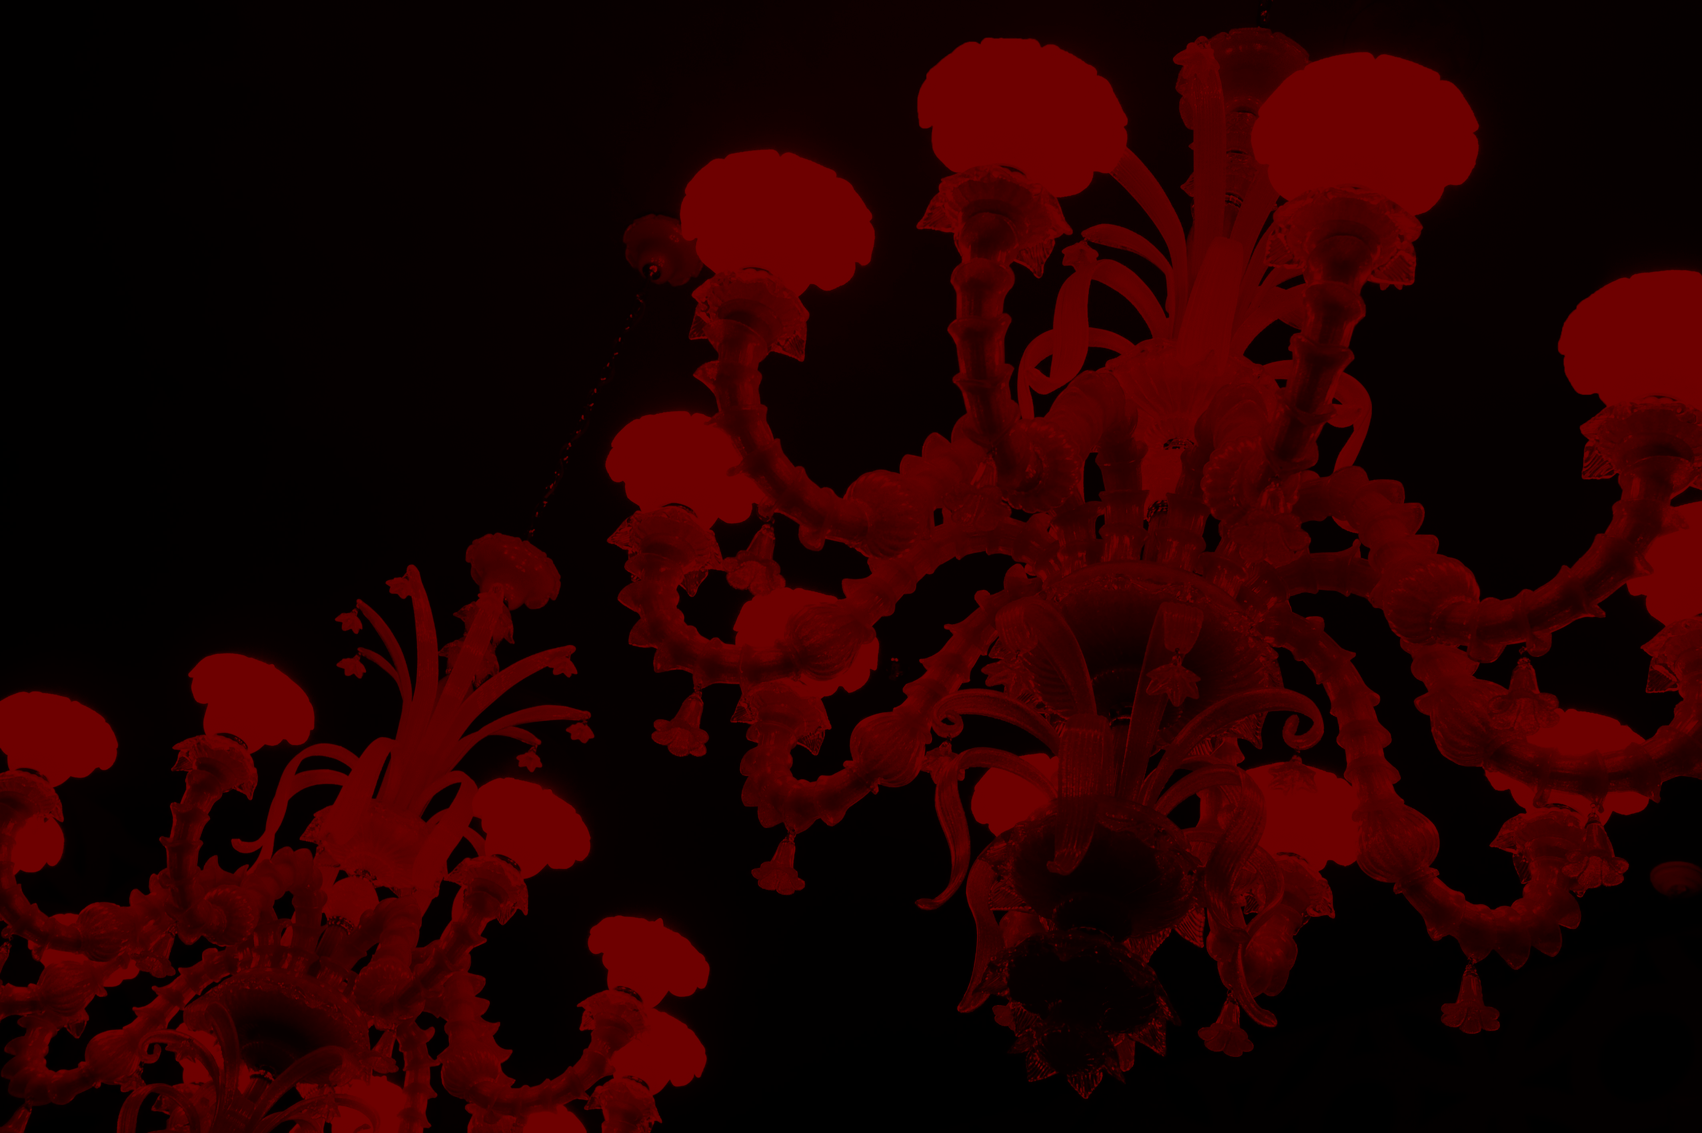
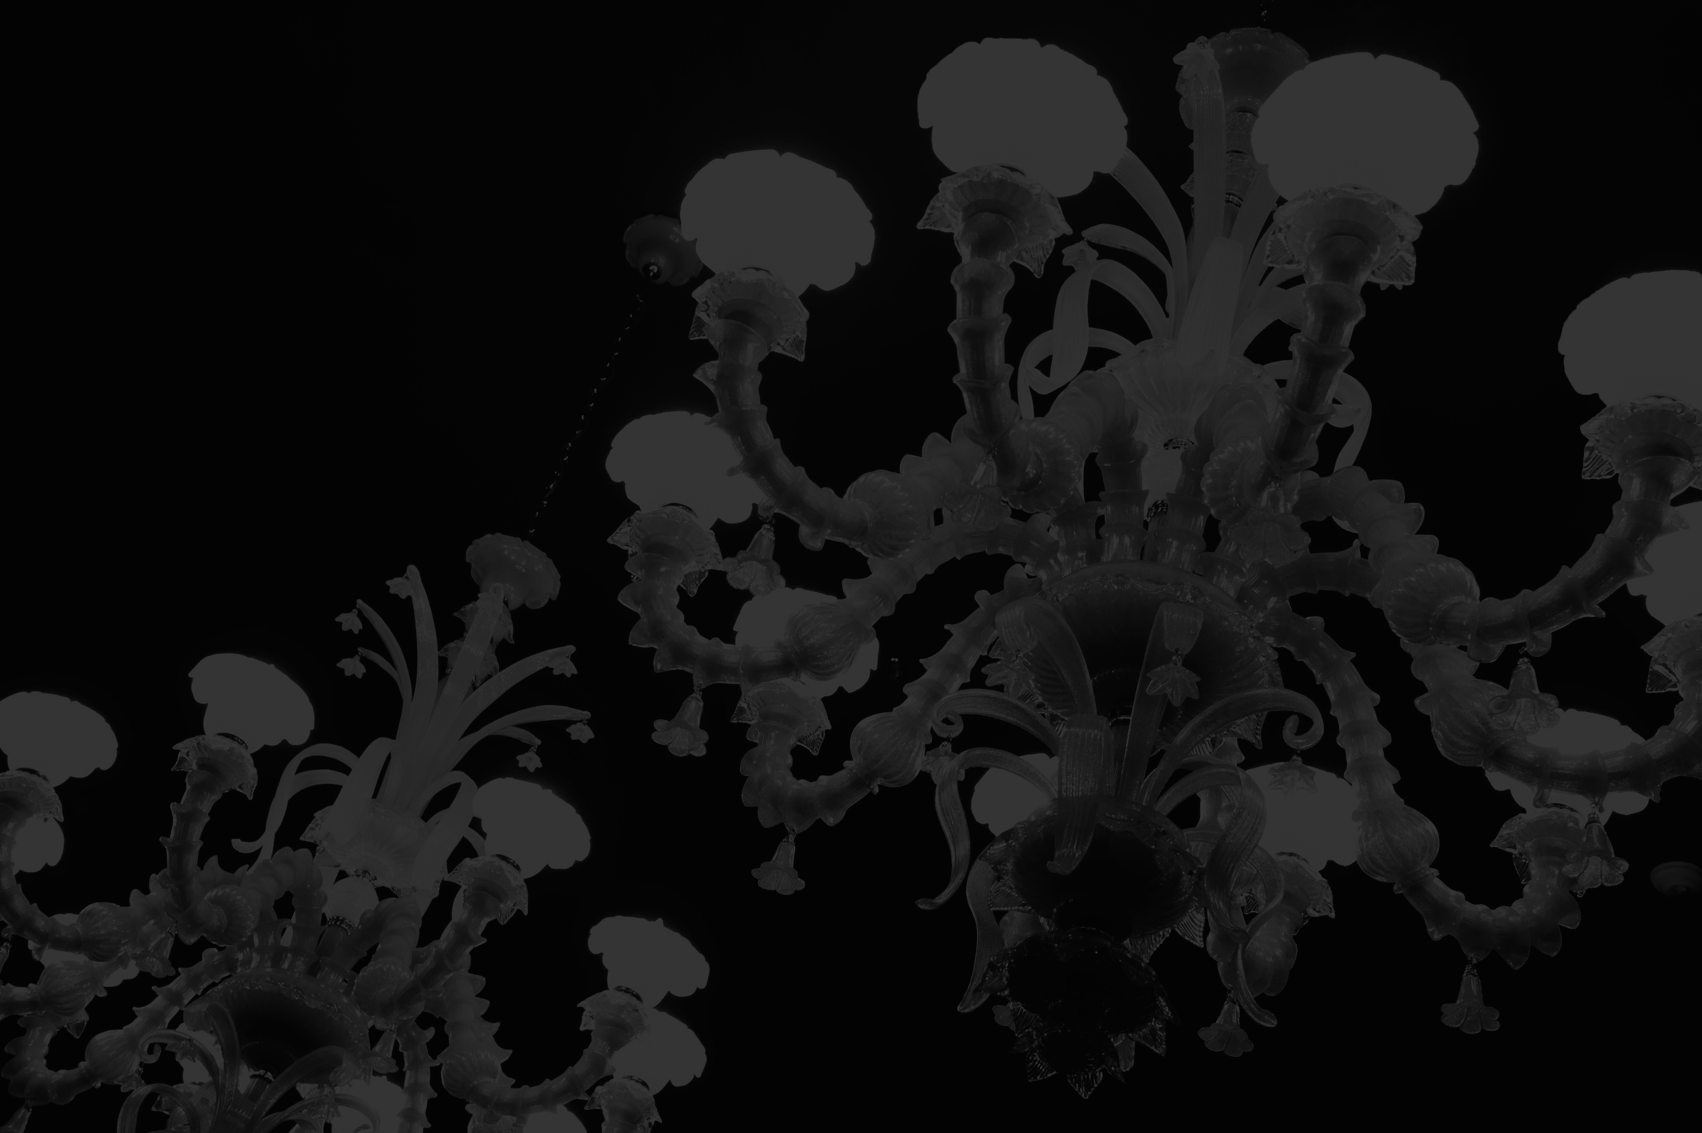
copy updates, less ominous styling

diff --git a/story_collector/templates/index.html b/story_collector/templates/index.html
@@ -1,37 +1,37 @@
 {% extends 'base.html' %}
 
 {% block content %}
-<div class="container">
-  <div class="row" id="intro">
-    <div class="col-sm-8 col-sm-offset-2 rounded-box speechbubble">
-      <h1>speak<span class="buzzfeed-red">easy</span><i class="fa fa-phone animated shake"></i></h1>
-      <a href="tel:1-415-231-2053"></a>
+<div class="row" id="intro">
+  <div class="col-sm-8 col-sm-offset-2 rounded-box speechbubble">
+    <h1 class="accent">speak<span class="accent2">easy</span><i class="fa fa-phone animated shake"></i></h1>
+    <a href="tel:1-415-231-2053"></a>
+  </div>
+
+  <div class="col-sm-8 col-sm-offset-2" id="introtext">
+    <div class="calltoaction">
+      <h2>Is there something you've wanted to say about election 2016, <span class="accent">but haven't</span>?</h2>
+      <p>
+        <strong>Leave a message at </strong>
+        <a href="tel:1-415-231-2053">415-231-2053</span></a>
+      </p>
     </div>
+    
+    <p>There's no shortage of pundits on TV or opinionated Facebook friends. But, the most vocal people aren't the only ones we should pay attention to.</p>
+    <p>This is a quiet place to share and listen. After you leave a message, <span class="accent">stay on the line to hear what someone else had to say</span>.</p>
+   <br>
 
-    <div class="col-sm-8 col-sm-offset-2 rounded-box" id="introtext">
-      <div class="calltoaction">
-        <h2>What have you wanted to say about the 2016 election cycle, but haven't?</h2>
-        <p>
-          <strong>Leave a message at </strong>
-          <a href="tel:1-415-231-2053" class="buzzfeed-red">415-231-2053</span></a>
-        </p>
-      </div>
-      
-      <p>There's no shortage of pundits on TV or opinionated Facebook friends. But, the most vocal people aren't the only ones we should pay attention to.</p>
-      <p>This is a quiet place to share and listen. After you leave a message, hear what someone else had to say. [re-word this..]</p>
-     <br>
-     <p>
-        <strong>Note:</strong> Your message may be shared with other callers or published on this site. Your phone number will be kept anonymous.In case you're here to spread hate anonymously, know that messages will also be moderated. 
-     </p>
 
-     <br>
+    <p class="caption">
+      Your message may be shared with other callers or published on this site, but your phone number will be kept anonymous. Also, in case you're here to spread hate anonymously: messages will be moderated.
+    </p>
 
-     <p><span class="caption">Background photo by <a href="https://www.flickr.com/photos/glowbalcollection/4069468001">Larry Goldstein via Flickr</a>.</span></p>
-
-    </div>
-
+    <p class="caption">
+      Background photo by <a href="https://www.flickr.com/photos/glowbalcollection/4069468001">Larry Goldstein via Flickr</a>.
+    </p>
 
   </div>
+
+
 </div>
 {% endblock %}
 

diff --git a/story_collector/static/custom.css b/story_collector/static/custom.css
@@ -1,7 +1,6 @@
 body {
 	font-size: 18px;
-	background-color: #701816;
-	color:#1a1918;
+	color: #ececec;/*#1a1918*/
   font-family: 'Montserrat', helvetica, arial, sans-serif;
 }
 
@@ -16,14 +15,11 @@ h1, h2, h3, h4, h5{
 .rounded-box,
 .rounded-story-box{
 	color:#1a1918;
-	background-color: rgba(255, 255, 255, 0.8);
+	background-color: rgba(255, 255, 255, 0.2);
 	margin-top: 50px;
 	border-radius: 15px;
 	padding:15px 20px;
 	text-align:center;
-	-webkit-box-shadow: 21px 18px 0px 0px rgba(166,36,36,0.65);
-	-moz-box-shadow: 21px 18px 0px 0px rgba(166,36,36,0.65);
-	box-shadow: 21px 18px 0px 0px rgba(166,36,36,0.65);
 }
 
 .speechbubble:after {
@@ -31,11 +27,18 @@ h1, h2, h3, h4, h5{
   position: absolute;
   -moz-transform: rotate(180deg);
   -webkit-transform: rotate(180deg);
-  bottom: -29px;
+  bottom: -30px;
   left: 50px;
   border-width: 15px;
   border-style: solid;
-  border-color: transparent rgba(255, 255, 255, 0.8) rgba(255, 255, 255, 0.8) transparent;
+  border-color: transparent rgba(255, 255, 255, 0.2) rgba(255, 255, 255, 0.2) transparent;
+}
+
+.accent {
+  color: #a2ded0;
+}
+.accent2 {
+  color: #d4f0e9;
 }
 
 .buzzfeed-red{
@@ -46,22 +49,24 @@ h1, h2, h3, h4, h5{
 .speechbubble h1{
 	font-family: 'Montserrat', sans-serif;
 	text-transform: uppercase;
-	font-weight: bold;
 	margin-top: 10px;
 	text-align: center;
 	font-size: 3em;
 	
 }
 
+a, a:hover, a:active, a:visited {
+  color: #fb7665;
+}
 
 i.fa.fa-phone.animated {
-    color: #e93f33;
+    color: #fb7665;
     width: 45px;
     height: 45px;
     text-align: center;
     padding-top: 11px;
     border-radius: 25px;
-    border: 2px solid #e93f33;
+    border: 2px solid #fb7665;
     font-size: 0.5em !important;
     vertical-align: middle;
     margin: 0px 10px;
@@ -85,6 +90,10 @@ i.fa.fa-phone.animated {
 .caption {
     color: #717070;
     font-size: 0.75em;
+}
+.caption a {
+  color: #717070;
+  text-decoration: underline;
 }
 
 @media (max-width: 600px){
